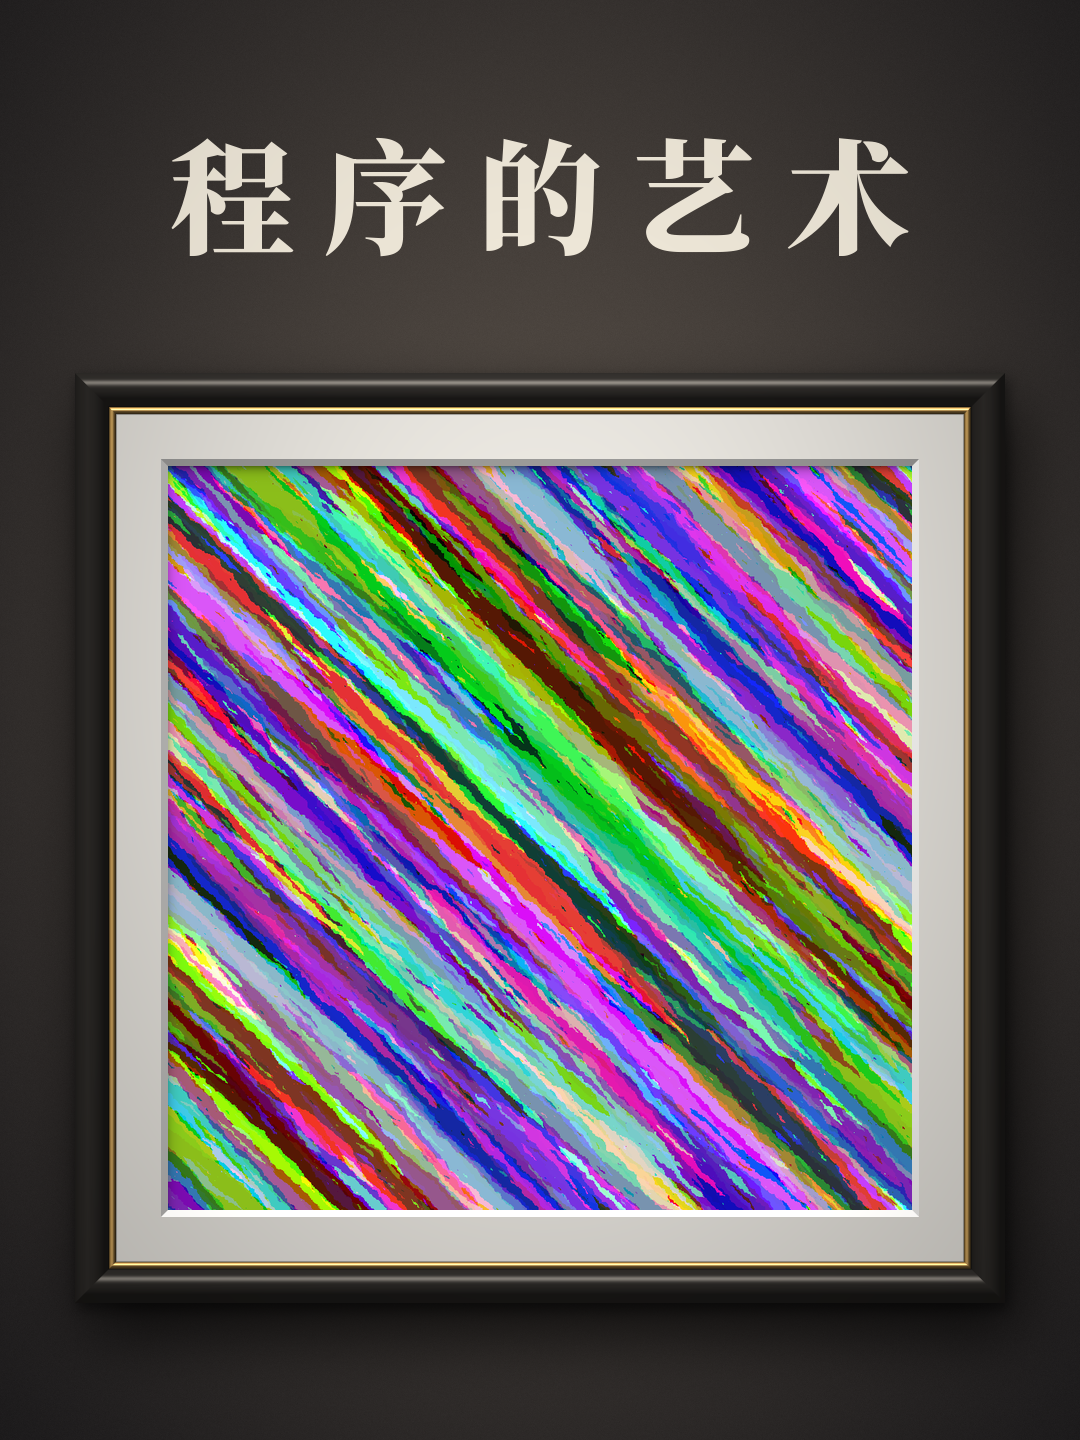
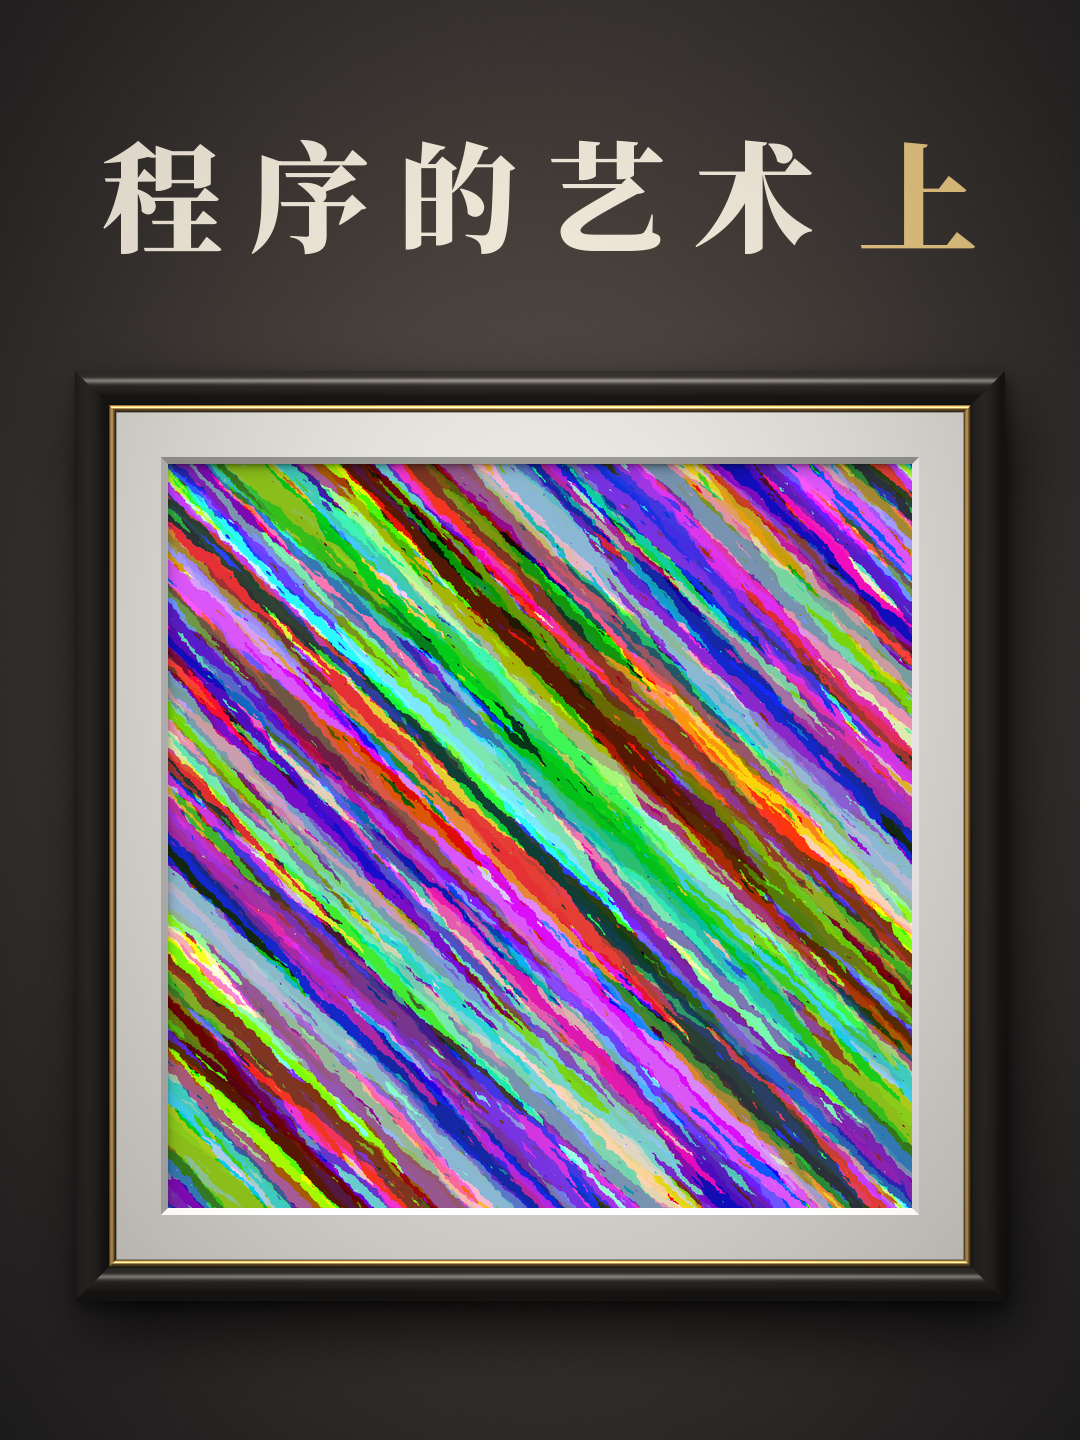
程序的艺术：封面标题加上"上"/"下"
标题后面加金色的"上"或"下"（取自片名），与画框内侧的金边同色；
标题组合按墨迹居中，过宽时自动缩小。两条封面及 3:4 版重新生成。

Claude-Session: https://claude.ai/code/session_014XuUndt3Mt7VJonhty3hws

Changed region(s): [[0.0917, 0.25, 0.9167, 0.8438], [0.0917, 0.0938, 0.9167, 0.1875], [0.0917, 0.875, 0.9167, 0.9062]]

diff --git a/code-art/cover.py b/code-art/cover.py
@@ -1,4 +1,5 @@
-"""Cover: the film's cover picture in a frame on a dark gallery wall, with the words 程序的艺术.
+"""Cover: the film's cover picture in a frame on a dark gallery wall, with the words 程序的艺术 and the
+volume (上 / 下) in gold.
 
 1080x1920. Everything that matters sits inside the central 1080x1440 (3:4), the part profile grids
 on TikTok and Douyin show; that part is also written as its own file.
@@ -16,7 +17,8 @@ from piece import load_film, HERE
 
 W, H = 1080, 1920
 GRID = (240, 1680)                   # rows a 3:4 profile grid shows
-TITLE = '程序的艺术'
+TITLE_MAX = 900                      # widest the title group may be
+MARK_GAP = 44                        # title -> volume mark (上 / 下)
 FONT_DIR = os.path.join(HERE, '..', 'fonts')
 
 ART = 744                            # picture size on the cover
@@ -25,7 +27,7 @@ SLIP = 7                             # gold slip between moulding and mat
 MOULD = 34                           # moulding width
 INNER = MOULD + SLIP + MAT           # frame edge -> picture edge
 OUTER = ART + 2 * INNER
-TITLE_SIZE, TITLE_TRACK, TITLE_GAP = 124, 30, 112
+TITLE_SIZE, TITLE_TRACK, TITLE_GAP = 120, 28, 112
 SS = 3                               # supersampling of the frame
 
 LIGHT = np.array([-0.30, -0.80, 0.52]); LIGHT /= np.linalg.norm(LIGHT)
@@ -34,6 +36,7 @@ HALF = LIGHT + np.array([0, 0, 1.0]); HALF /= np.linalg.norm(HALF)
 STYLE = dict(
     font='NotoSerifSC-900.ttf',
     title=(236, 229, 214),
+    mark=(222, 190, 126),                                            # the volume mark: gold, like the frame's slip
     wall=(14, 14, 17), spot=(70, 62, 52),
     mould=dict(base=(0.085, 0.080, 0.075), ka=1.0, kd=1.3, ks=0.55, shin=30, spec=(1.0, 0.97, 0.92)),
     slip=dict(base=(0.72, 0.56, 0.30), ka=0.40, kd=0.85, ks=0.85, shin=16, spec=(1.0, 0.92, 0.70)),
@@ -115,28 +118,45 @@ def frame(style, light_at):
     return np.clip(col * 255, 0, 255), alpha
 
 
-def title(img, light, style, top):
-    """程序的艺术, letter-spaced and centred on its ink, as lettering on the wall."""
-    f = font(style['font'], TITLE_SIZE)
-    xs, x = [], 0.0
-    for c in TITLE:
-        xs.append(x)
-        x += f.getlength(c) + TITLE_TRACK
-    ink0 = xs[0] + f.getbbox(TITLE[0], anchor='ls')[0]
-    ink1 = xs[-1] + f.getbbox(TITLE[-1], anchor='ls')[2]
-    off = W / 2 - (ink0 + ink1) / 2
-    asc = -min(f.getbbox(c, anchor='ls')[1] for c in TITLE)          # cap height above the baseline
-    mask = Image.new('L', (W, H), 0)
-    d = ImageDraw.Draw(mask)
-    for c, cx in zip(TITLE, xs):
+def title(img, light, style, top, text, mark=None):
+    """The title, letter-spaced, and after it the volume mark (上 / 下) in gold. The group is centred on its ink."""
+    size = TITLE_SIZE
+    while True:                                                       # shrink only if the group would be too wide
+        f = font(style['font'], size)
+        track = TITLE_TRACK * size / TITLE_SIZE
+        xs, x = [], 0.0
+        for c in text:
+            xs.append(x)
+            x += f.getlength(c) + track
+        boxes = [f.getbbox(c, anchor='ls') for c in text]
+        ink0, ink1 = xs[0] + boxes[0][0], xs[-1] + boxes[-1][2]
+        asc = -min(b[1] for b in boxes)
+        gap = MARK_GAP * size / TITLE_SIZE
+        mb = f.getbbox(mark, anchor='ls') if mark else (0, 0, 0, 0)
+        right = ink1 + gap + (mb[2] - mb[0]) if mark else ink1
+        if right - ink0 <= TITLE_MAX:
+            break
+        size -= 2
+    off = W / 2 - (ink0 + right) / 2
+    lit = 0.86 + 0.18 * light[..., None]
+    layers = []
+    m = Image.new('L', (W, H), 0)
+    d = ImageDraw.Draw(m)
+    for c, cx in zip(text, xs):
         d.text((off + cx, top + asc), c, font=f, fill=255, anchor='ls')
-    a = np.asarray(mask, np.float32)[..., None] / 255
-    ink = np.array(style['title'], np.float32) * (0.86 + 0.18 * light[..., None])
-    return img * (1 - a) + ink * a
+    layers.append((m, style['title']))
+    if mark:
+        m = Image.new('L', (W, H), 0)
+        ImageDraw.Draw(m).text((off + ink1 + gap - mb[0], top + asc), mark, font=f, fill=255, anchor='ls')
+        layers.append((m, style['mark']))
+    for m, colour in layers:
+        a = np.asarray(m, np.float32)[..., None] / 255
+        img = img * (1 - a) + np.array(colour, np.float32) * lit * a
+    return img
 
 
-def draw(art, style=STYLE):
-    """art: (1024, 1024, 3) uint8 -> cover (H, W, 3) uint8"""
+def draw(art, text='程序的艺术', mark=None, style=STYLE):
+    """art: (1024, 1024, 3) uint8 -> cover (H, W, 3) uint8. mark: the volume, 上 or 下, or None."""
     t_top, f_top = layout()
     fx = (W - OUTER) // 2
     img, light = wall(style, f_top)
@@ -148,7 +168,7 @@ def draw(art, style=STYLE):
     ImageDraw.Draw(sil).rectangle([fx + 2, f_top + 6, fx + OUTER + 2, f_top + OUTER + 6], fill=255)
     near = np.asarray(sil.filter(ImageFilter.GaussianBlur(6)), np.float32) / 255
     img *= (1 - 0.72 * soft)[..., None] * (1 - 0.45 * near)[..., None]
-    img = title(img, light, style, t_top)
+    img = title(img, light, style, t_top, text, mark)
     # the picture, with the mat's shadow along its top and left edge
     pic = np.asarray(Image.fromarray(art).resize((ART, ART), Image.LANCZOS), np.float32)
     k = np.arange(ART, dtype=np.float32)
@@ -165,7 +185,8 @@ def draw(art, style=STYLE):
 def main():
     work, which, out = sys.argv[1], sys.argv[2], sys.argv[3]
     film = load_film(work, which)
-    cover = draw(film.pieces[film.cover].render())
+    text, _, mark = film.title.partition(' ')
+    cover = draw(film.pieces[film.cover].render(), text, mark or None)
     os.makedirs(os.path.dirname(os.path.abspath(out)) or '.', exist_ok=True)
     Image.fromarray(cover).save(out, optimize=True)
     stem, ext = os.path.splitext(out)

diff --git a/code-art/README.md b/code-art/README.md
@@ -7,7 +7,7 @@
 | 文件 | 内容 |
 |---|---|
 | `out/程序的艺术_上.mp4`、`out/程序的艺术_下.mp4` | 成片（Git LFS）：1080×1920，60 fps，各 30.0 秒，H.264 CRF 15 + AAC 256k，−18 LUFS |
-| `out/程序的艺术_上_封面.png`、`out/程序的艺术_下_封面.png` | 封面（1080×1920）：展墙上的画框，框里上用 2a、下用 2b，上方是"程序的艺术"五个字；另有 `_3x4` 版（1080×1440） |
+| `out/程序的艺术_上_封面.png`、`out/程序的艺术_下_封面.png` | 封面（1080×1920）：展墙上的画框，框里上用 2a、下用 2b，上方是"程序的艺术"和金色的"上"或"下"；另有 `_3x4` 版（1080×1440） |
 | `out/程序的艺术_上_音轨.wav`、`out/程序的艺术_下_音轨.wav` | 无损音轨（Git LFS，48 kHz / 16 bit 立体声） |
 | `code-art/films.txt` | 片单：每条视频用哪几幅、按什么顺序、封面用哪一幅 |
 | `code-art/pieces/*.cpp` | 每幅作品的完整程序，也是视频里显示的代码的唯一来源 |
@@ -105,7 +105,7 @@
 ## 封面
 
 `cover.py` 单独画封面，不是从视频里截帧：深色展墙，上方一盏暖色射灯；墙上挂一个黑漆画框，内侧一道金边，里面是白色卡纸和斜切的卡纸开口；框里是片单指定的那一幅作品（744×744）。画框按光照着色（光从上方偏左来），下方和右侧在墙上投出阴影。
-上方是"程序的艺术"五个字（思源宋体 Heavy，米白色，加宽字距）。
+上方是"程序的艺术"（思源宋体 Heavy，米白色，加宽字距），后面是金色的"上"或"下"，与画框内侧的金边同色；字取自片名 `films.txt`。
 标题和画框都放在中间 1080×1440 的范围里，这是抖音和 TikTok 主页网格显示的 3:4 区域，所以另存了一张 `_3x4` 版，可直接作为 3:4 封面上传。
 
 ## 声音
